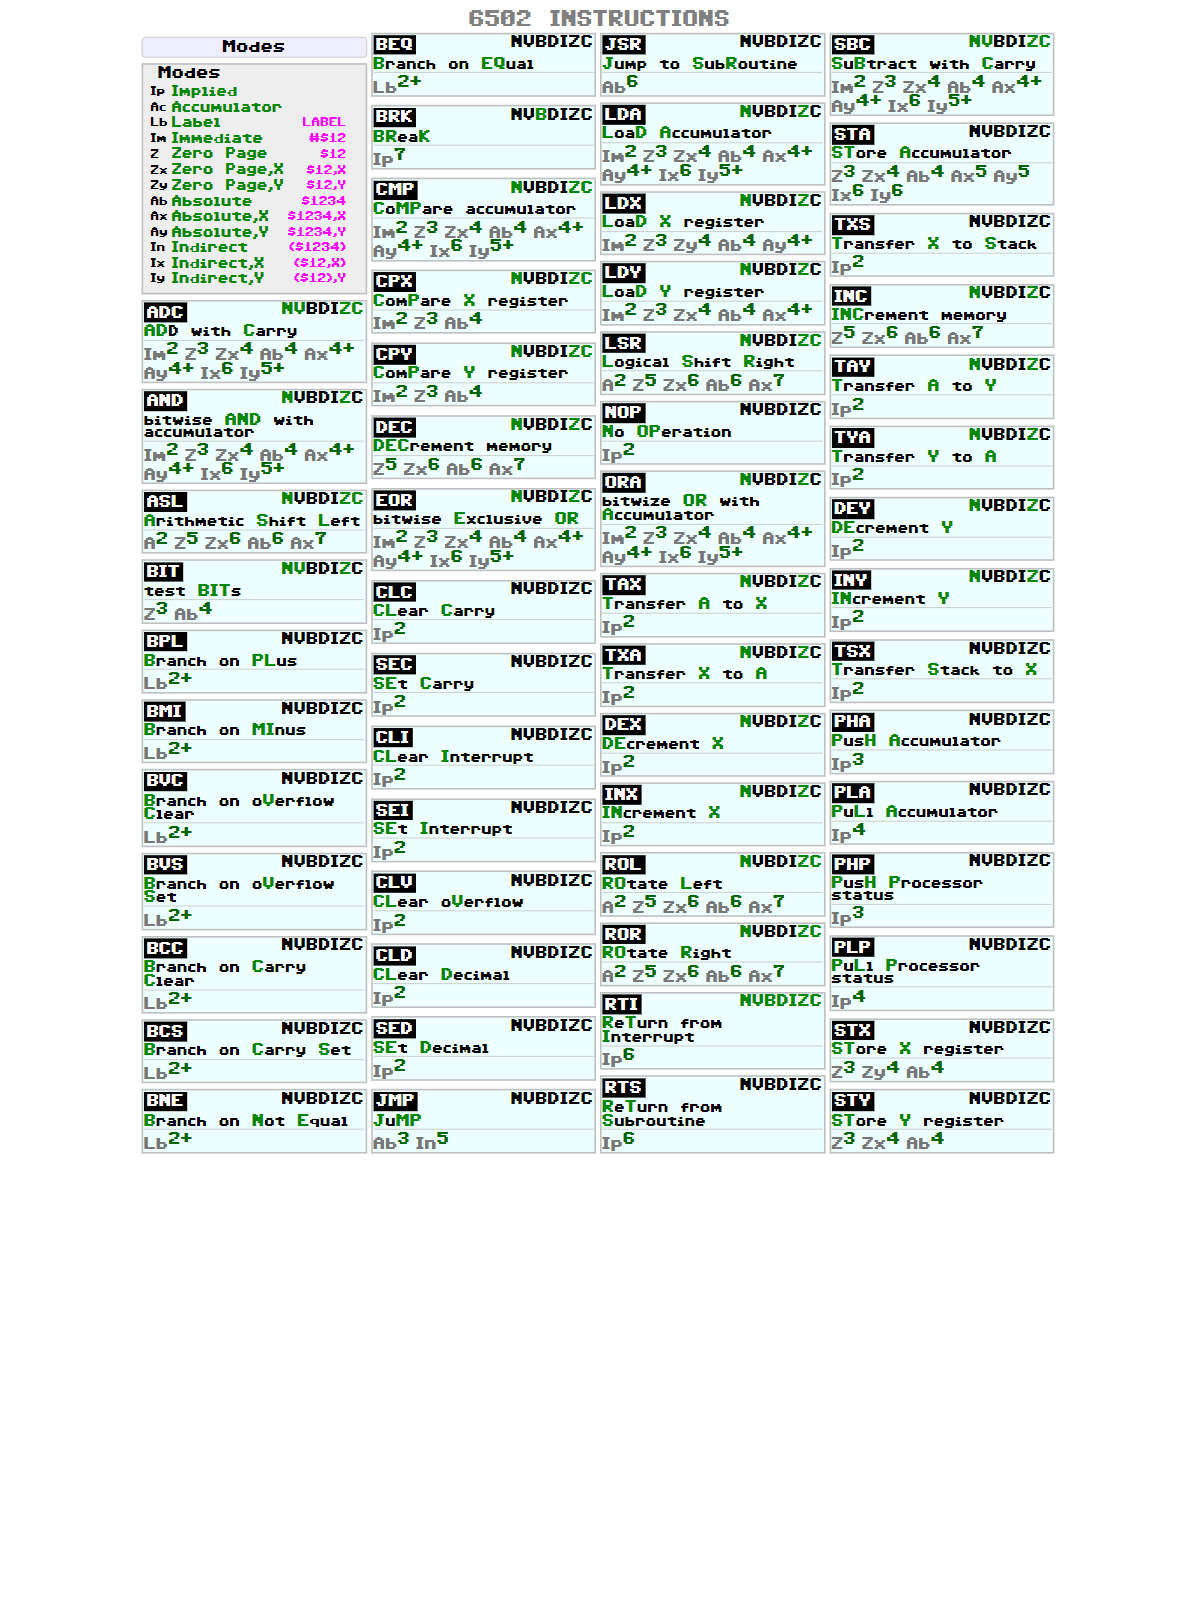
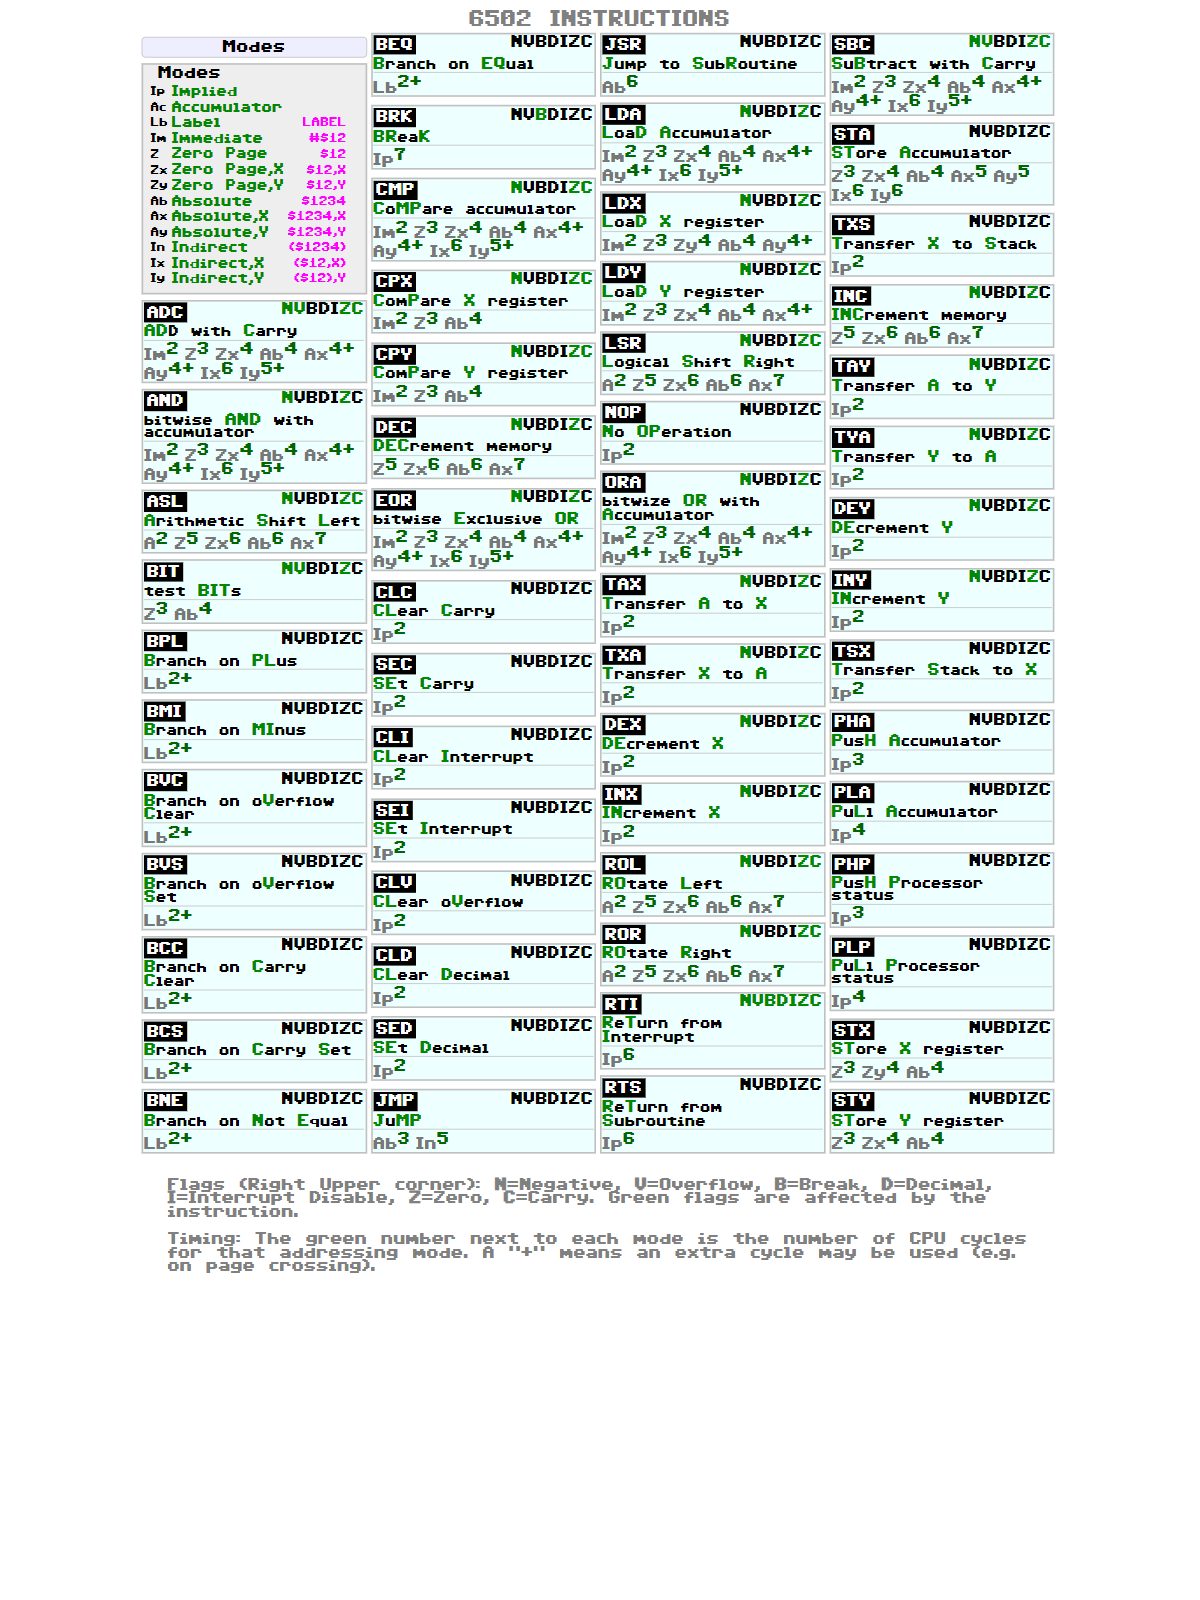
Footer added

Changed region(s): [[0.1233, 0.7188, 0.8325, 0.8125]]

diff --git a/scripts/common-html-generator.js b/scripts/common-html-generator.js
@@ -84,6 +84,14 @@ class CommonHTMLGenerator {
                 ${col3}
                 ${col4}
             </div>
+            <div style="text-align:center;color:gray;margin-top:24px;margin-bottom:24px;">
+              <div style="display: block; text-align:left;width:900px;margin:auto;font-size:10px;">
+                <ul class="footer-list" style="margin:8px 0 0 18px;padding:0;">
+                    Flags (Right Upper corner): <b>N</b>=Negative, <b>V</b>=Overflow, <b>B</b>=Break, <b>D</b>=Decimal, <b>I</b>=Interrupt Disable, <b>Z</b>=Zero, <b>C</b>=Carry. Green flags are affected by the instruction.<br/><br/>
+                    Timing: The green number next to each mode is the number of CPU cycles for that addressing mode. A "+" means an extra cycle may be used (e.g. on page crossing).<br/><br/>
+                </ul>
+              </div>
+            </div>
         `;
     }
 
@@ -163,6 +171,14 @@ class CommonHTMLGenerator {
                 ${modesTable}
                 ${categoryLists}
             </div>
+            <div style="text-align:center;color:gray;margin-top:24px;margin-bottom:24px;">
+              <div style="display: block; text-align:left;width:900px;margin:auto;font-size:10px;">
+                <ul class="footer-list" style="margin:8px 0 0 18px;padding:0;">
+                    Flags (Right Upper corner): <b>N</b>=Negative, <b>V</b>=Overflow, <b>B</b>=Break, <b>D</b>=Decimal, <b>I</b>=Interrupt Disable, <b>Z</b>=Zero, <b>C</b>=Carry. Green flags are affected by the instruction.<br/><br/>
+                    Timing: The green number next to each mode is the number of CPU cycles for that addressing mode. A "+" means an extra cycle may be used (e.g. on page crossing).<br/><br/>
+                </ul>
+              </div>
+            </div>
         `;
     }
 
@@ -201,6 +217,16 @@ class CommonHTMLGenerator {
             color: gray;
             margin-bottom: 20px;
             font-weight: bold;
+        }
+
+        .footer-list {
+            margin:8px 0 0 18px;
+            padding:0;
+            font-size:10px;
+        }
+
+        .footer-list b {
+            color:black;
         }
 
         /* Force consistent layout for static HTML to match PNG */

diff --git a/docs/cheat-sheet-6502.html b/docs/cheat-sheet-6502.html
@@ -47,6 +47,16 @@
             font-weight: bold;
         }
 
+        .footer-list {
+            margin:8px 0 0 18px;
+            padding:0;
+            font-size:10px;
+        }
+
+        .footer-list b {
+            color:black;
+        }
+
         /* Force consistent layout for static HTML to match PNG */
         .flex-container {
             height: 1125px !important;
@@ -795,6 +805,14 @@
                 </div>
             </div>
         
+            </div>
+            <div style="text-align:center;color:gray;margin-top:24px;margin-bottom:24px;">
+              <div style="display: block; text-align:left;width:900px;margin:auto;font-size:10px;">
+                <ul class="footer-list" style="margin:8px 0 0 18px;padding:0;">
+                    Flags (Right Upper corner): <b>N</b>=Negative, <b>V</b>=Overflow, <b>B</b>=Break, <b>D</b>=Decimal, <b>I</b>=Interrupt Disable, <b>Z</b>=Zero, <b>C</b>=Carry. Green flags are affected by the instruction.<br/><br/>
+                    Timing: The green number next to each mode is the number of CPU cycles for that addressing mode. A "+" means an extra cycle may be used (e.g. on page crossing).<br/><br/>
+                </ul>
+              </div>
             </div>
         
     

diff --git a/docs/cheat-sheet-65C02.html b/docs/cheat-sheet-65C02.html
@@ -47,6 +47,16 @@
             font-weight: bold;
         }
 
+        .footer-list {
+            margin:8px 0 0 18px;
+            padding:0;
+            font-size:10px;
+        }
+
+        .footer-list b {
+            color:black;
+        }
+
         /* Force consistent layout for static HTML to match PNG */
         .flex-container {
             height: 1435px !important;
@@ -992,6 +1002,14 @@
             </div>
         
             
+            </div>
+            <div style="text-align:center;color:gray;margin-top:24px;margin-bottom:24px;">
+              <div style="display: block; text-align:left;width:900px;margin:auto;font-size:10px;">
+                <ul class="footer-list" style="margin:8px 0 0 18px;padding:0;">
+                    Flags (Right Upper corner): <b>N</b>=Negative, <b>V</b>=Overflow, <b>B</b>=Break, <b>D</b>=Decimal, <b>I</b>=Interrupt Disable, <b>Z</b>=Zero, <b>C</b>=Carry. Green flags are affected by the instruction.<br/><br/>
+                    Timing: The green number next to each mode is the number of CPU cycles for that addressing mode. A "+" means an extra cycle may be used (e.g. on page crossing).<br/><br/>
+                </ul>
+              </div>
             </div>
         
     
